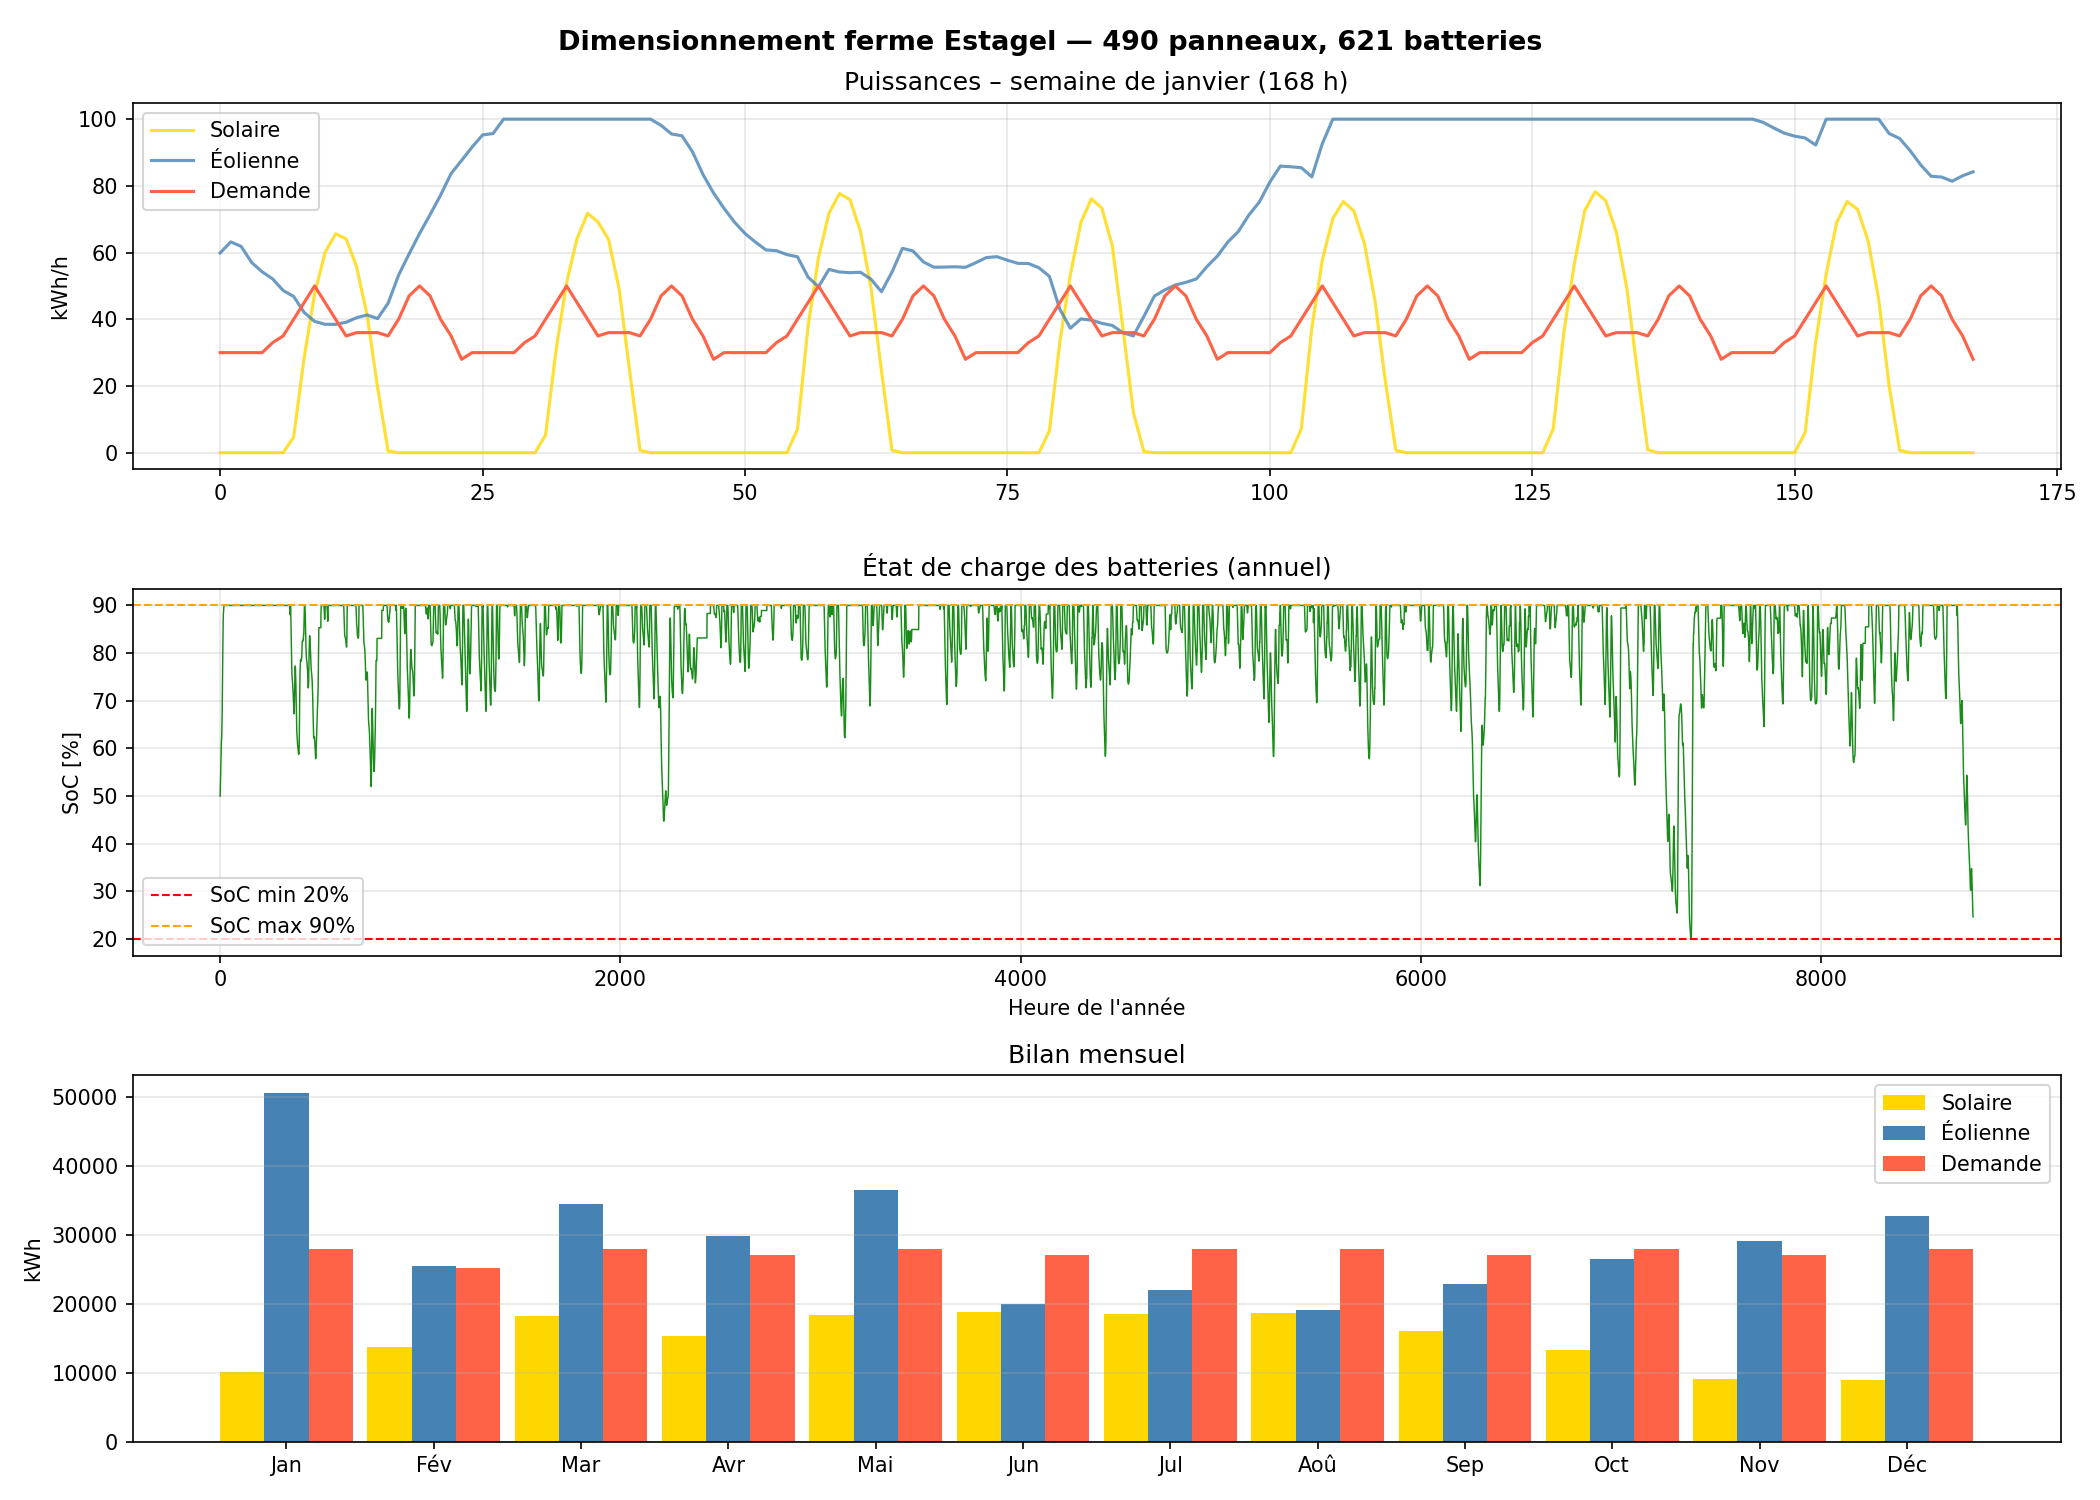
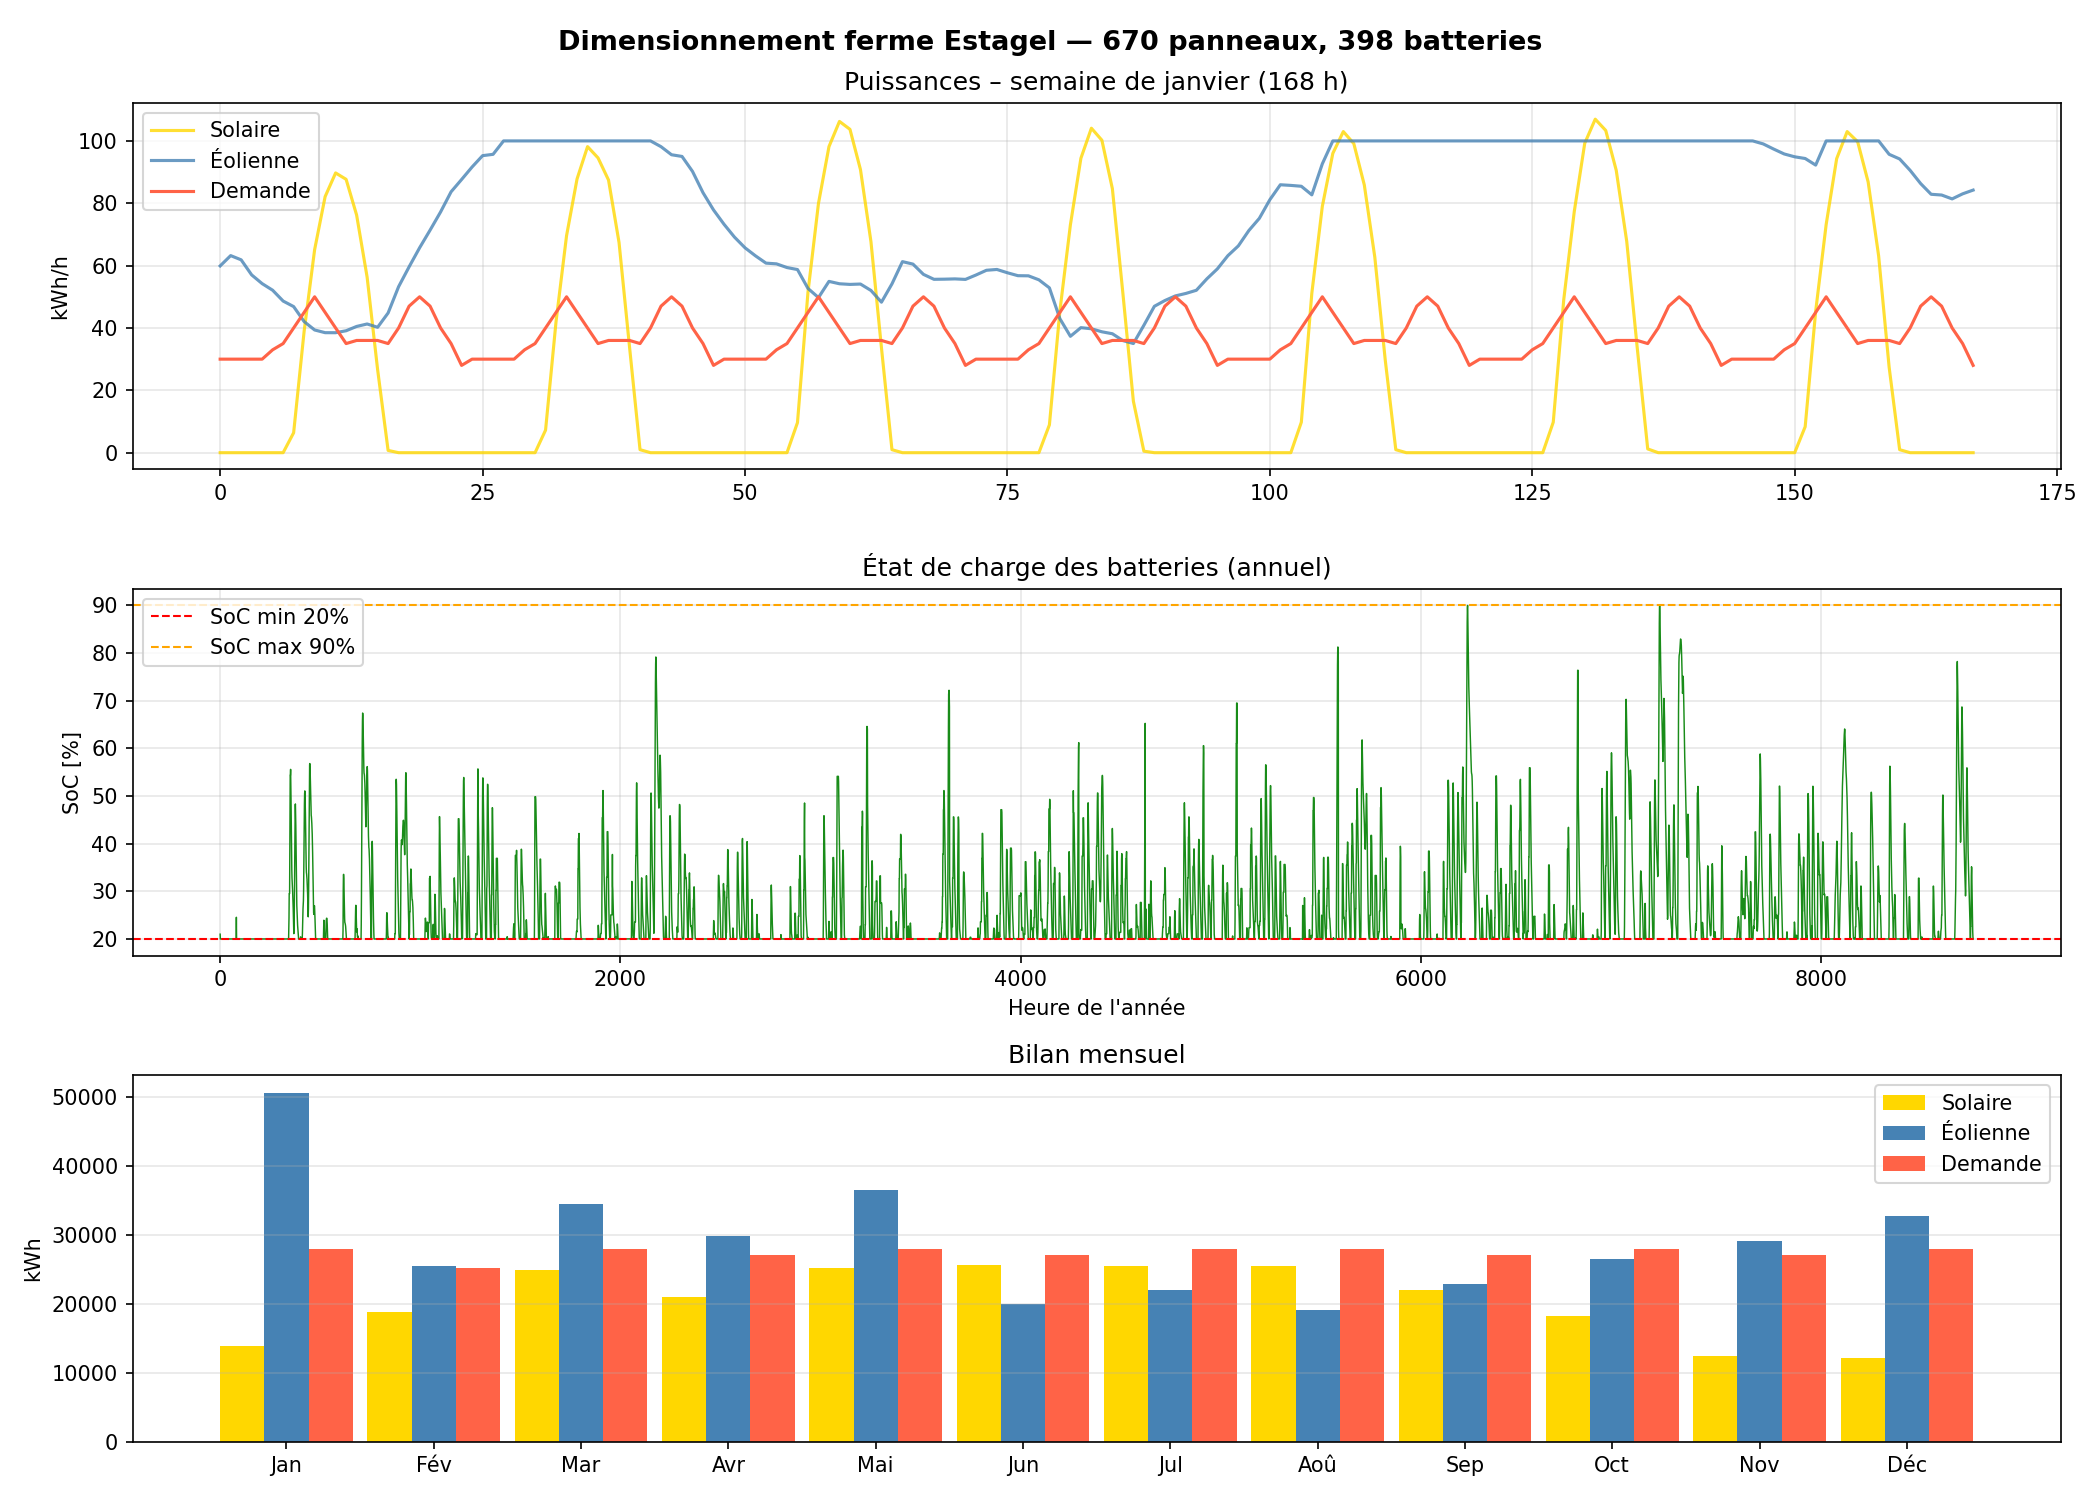
ene updated

diff --git a/ene.py b/ene.py
@@ -24,10 +24,8 @@ df_wind["Wind Speed"] = (
 v = df_wind["Wind Speed"].values  # m/s
 
 # =============================================================================
-# 2. PRODUCTION EOLIENNE  (courbe de puissance Hummer H25.0-100kW)
+# 2. PRODUCTION EOLIENNE 
 # =============================================================================
-# Caractéristiques : D = 25 m, P_nom = 100 kW
-
 
 P_nom_eol = 100.0   # kW
 
@@ -38,13 +36,13 @@ def wind_power_kw(v_arr):
         if vi < 1.0 or vi > 25:
             p[i] = 0.0
         elif vi <= 10.0:
-            # Polynôme: 0.9924*v² + 0.0227*v + 0.1667  [kW]
+            # Polynôme: 0.9924*v² + 0.0227*v + 0.1667 
             p[i] = 0.9924 * vi**2 + 0.0227 * vi + 0.1667
         else:
             p[i] = P_nom_eol
     return p
 
-W = wind_power_kw(v)   # kWh produits par l'éolienne à chaque heure (pas = 1h)
+W = wind_power_kw(v)   # kWh produits par l'éolienne à chaque heure 
 
 # =============================================================================
 # 3. DEMANDE ELECTRIQUE DE LA FERME  (kWh/h)
@@ -61,7 +59,7 @@ profil_jour = np.array([
 
 jours_mois = np.array([31, 28, 31, 30, 31, 30, 31, 31, 30, 31, 30, 31])
 
-# Répétition sur 365 jours pour obtenir le profil annuel (8760 h)
+# Répétition sur 365 jours pour obtenir le profil annuel
 D = np.tile(profil_jour, 365)
 
 D_annuelle_kWh = D.sum()
@@ -70,7 +68,7 @@ print(f"Consommation annuelle : {D_annuelle_kWh:,.0f} kWh")
 T = len(D)   # 8760
 
 # =============================================================================
-# 4. PARAMETRES TECHNIQUES
+# 4. PARAMETRES 
 # =============================================================================
 eta_p       = 0.18    # rendement panneau solaire
 A_p         = 1.0     # surface d'un panneau [m²]
@@ -80,7 +78,6 @@ SoC_max     = 0.90    # état de charge maximum
 delta_t     = 1.0     # pas de temps [h]
 
 # Production solaire unitaire (1 panneau) à chaque heure [kWh]
-# Le fichier irradiance.csv fournit déjà l'irradiance en kW/m².
 P_sol_unit = eta_p * A_p * G * delta_t   # G en kW/m² → kWh
 
 # =============================================================================
@@ -88,7 +85,7 @@ P_sol_unit = eta_p * A_p * G * delta_t   # G en kW/m² → kWh
 # =============================================================================
 model = gp.Model("Dimensionnement_Ferme")
 model.Params.LogToConsole = 1
-model.Params.TimeLimit    = 300   # 5 min max
+model.Params.TimeLimit    = 300  
 
 # --- Variables de décision ---
 Np  = model.addVar(vtype=GRB.INTEGER, lb=0, name="Np")   # nb panneaux
@@ -100,16 +97,12 @@ S_minus = model.addVars(T,  lb=0.0, name="S_minus")   # énergie soutirée [kWh]
 curtail = model.addVars(T,  lb=0.0, name="curtail")   # surplus effacé (curtailment) [kWh]
 
 # --- Fonction objectif ---
-# Minimisation du coût d'investissement (pondération par coût unitaire)
-# et pénalisation du curtailment.
-# Coûts indicatifs : panneau ~200 €, batterie ~500 €, curtailment ~1 €/kWh
-# Changez si vous avez des données précises.
-cout_panneau   = 200  # € par panneau
-cout_batterie  = 440  # € par batterie
-cout_curtail   = 10   # € par kWh excédentaire effacé
+cout_panneau   = 200 
+cout_batterie  = 440  
+cout_curtail   = 10  
 
 model.setObjective(
-    cout_panneau * Np + cout_batterie * Nb ,
+    cout_panneau * Np + cout_batterie * Nb + cout_curtail * gp.quicksum(curtail[t] for t in range(T)),
     GRB.MINIMIZE
 )
 
@@ -122,9 +115,9 @@ model.addConstrs(
     name="bilan"
 )
 
-# Fixer l'état de charge initial à 50% de la capacité utile
-model.addConstr(S[0] == 0.50 * C_b * Nb, name="SoC_initial")
-model.addConstr(Np  <= 490, name="limite de panneaux")  # pour éviter que le modèle n'exploite un panneau sans batterie
+# Fixer l'état de charge initial
+model.addConstr(S[0] == 0.21 * C_b * Nb, name="SoC_initial")
+#model.addConstr(Np  <= 490, name="limite de panneaux")
 # C2 : Dynamique du stock
 model.addConstrs(
     (S[t + 1] == S[t] - S_minus[t] + S_plus[t]
@@ -142,7 +135,7 @@ model.addConstrs(
     (S_minus[t] <= C_b * Nb for t in range(T)),
     name="discharge_limit"
 )
-model.addConstr(Nb<=1000, name="limite de batteries")  # pour éviter que le modèle n'exploite une batterie sans panneau
+model.addConstr(Nb<=1000, name="limite de batteries")  
 # C3 : Bornes état de charge
 model.addConstrs(
     (S[t] >= SoC_min * C_b * Nb for t in range(T + 1)),
@@ -173,8 +166,6 @@ if model.Status in (GRB.OPTIMAL, GRB.TIME_LIMIT):
     print(f"  Nombre de batteries          : {Nb_opt}")
     print(f"  Surface solaire totale       : {Np_opt} m²")
     print(f"  Capacité batterie totale     : {Nb_opt * C_b:.1f} kWh")
-    print(f"  SoC utile                    : [{SoC_min*100:.0f}% – {SoC_max*100:.0f}%]  "
-          f"→ {Nb_opt * C_b * (SoC_max - SoC_min):.1f} kWh utiles")
     print(f"  Coût d'investissement estimé : {cout_total:,.0f} €")
     print("=" * 50)
 
@@ -207,7 +198,8 @@ if model.Status in (GRB.OPTIMAL, GRB.TIME_LIMIT):
                 color="steelblue", alpha=0.8)
         ax.plot(range(len(idx)), D[idx], label="Demande" if nom == "Hiver (jan)" else "_",
                 color="tomato", lw=1.5)
-        break   # on affiche seulement hiver pour lisibilité
+        break   
+    
     ax.set_title("Puissances – semaine de janvier (168 h)")
     ax.set_ylabel("kWh/h")
     ax.legend()